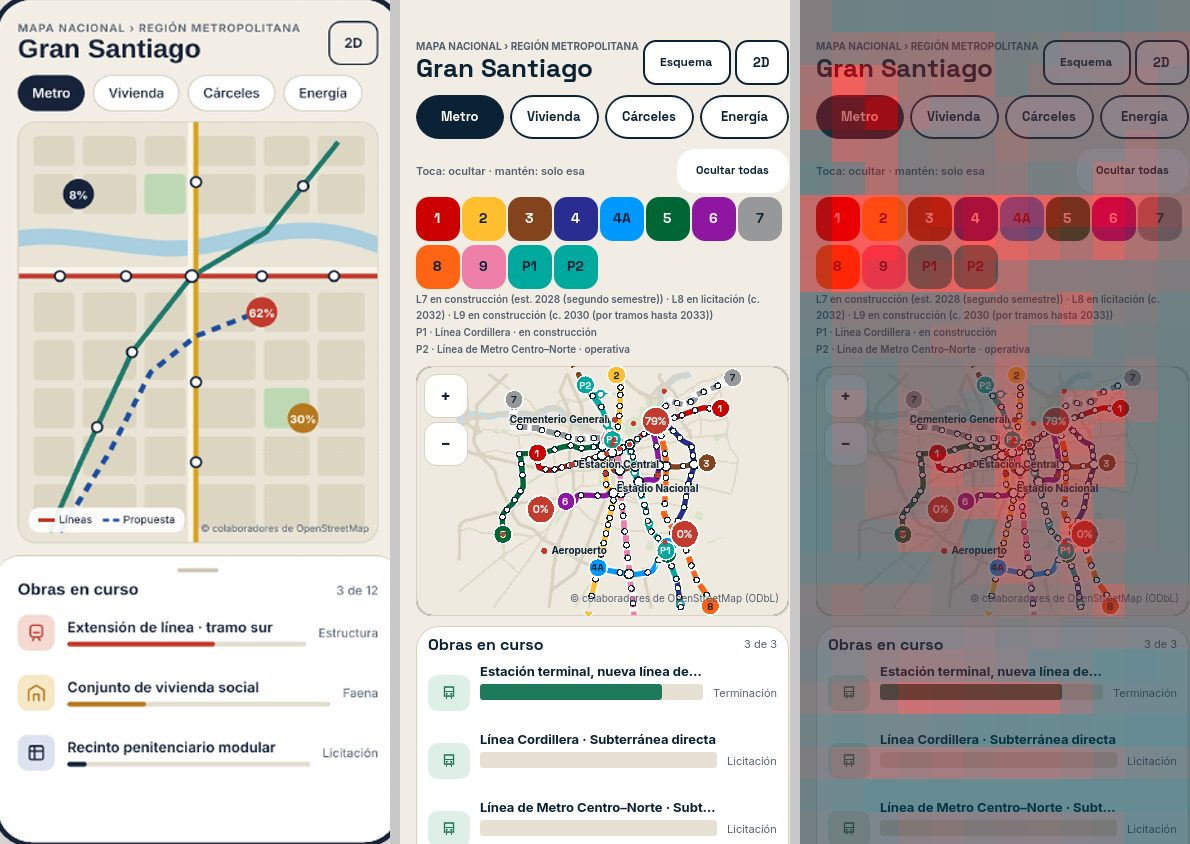
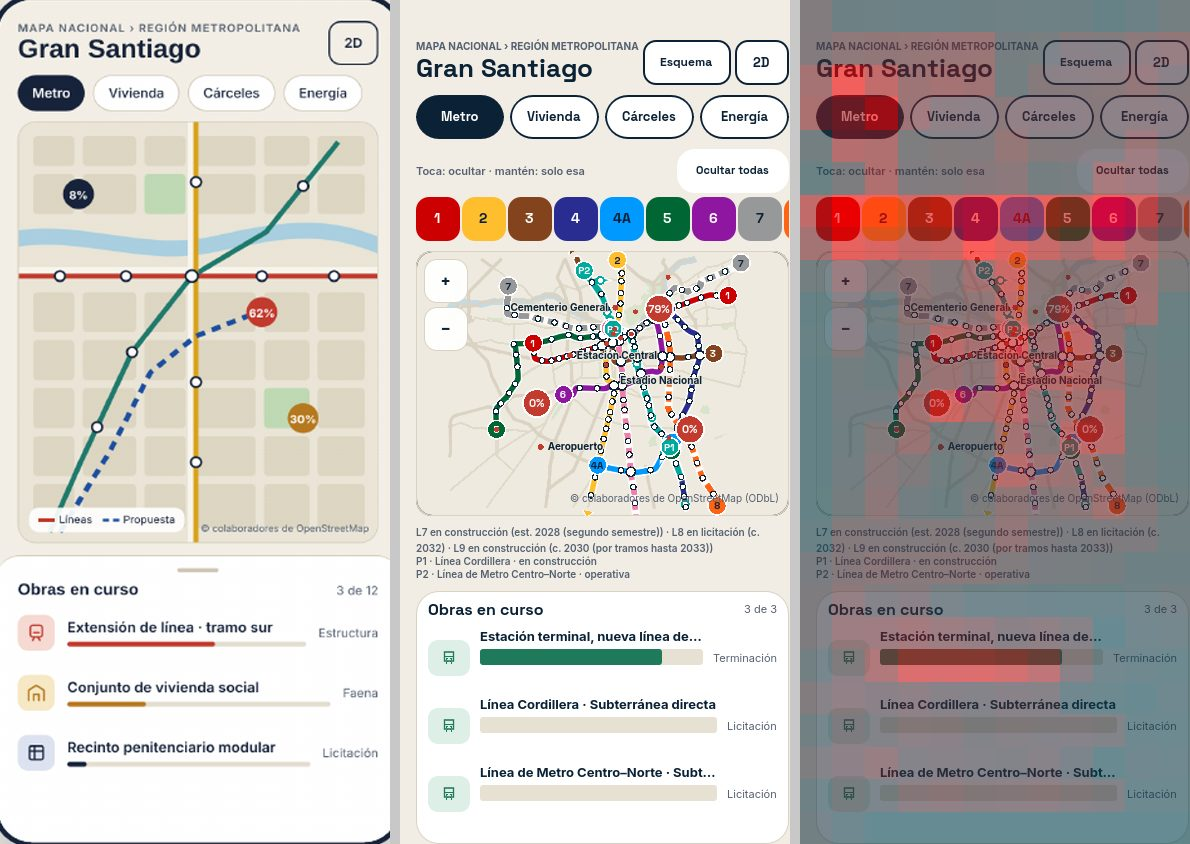
Mapa urbano: fichas de Metro en una fila deslizable y notas bajo el mapa
Las fichas de líneas ocupaban dos filas sobre el mapa y la hoja de obras
se salía por abajo (su tercera fila quedaba cortada). LeyendaMetro gana
«compacta» (una fila que se desliza de lado) y «notas_aparte» (las notas
de líneas futuras y propias van bajo el mapa). Todo cabe; frente a la
maqueta, de 23,0 % a 21,8 % de píxeles distintos. El mapa urbano entra a
RecorridoUI y test_textos no cuenta como desborde lo que está dentro de
una zona desplazable. El Comité sigue con la leyenda en dos filas.

Claude-Session: https://claude.ai/code/session_015HWWmkqdrhteNyoiHrGmho

Changed region(s): [[0.342, 0.2464, 0.995, 1.0], [0.995, 0.2156, 1.0, 0.2773]]

diff --git a/docs/DIFERENCIAS_MAQUETA.md b/docs/DIFERENCIAS_MAQUETA.md
@@ -194,4 +194,6 @@ Píxeles distintos del día frente a la maqueta: de 43,1 % a 39,2 %. El mapa gan
 
 En la votación: el contenido sube con la zona segura, el hemiciclo del Senado se compacta (radio 0,41 del ancho en vez de 0,46, alto 205 en vez de 230) y el sello «APROBADA / RECHAZADA» pasa a 32 pt con letras separadas, como en la maqueta. Píxeles distintos: de 22,5 % a 22,0 %.
 
+En el mapa urbano, las fichas de líneas de Metro (una extensión sobre la maqueta) ocupaban dos filas sobre el mapa, y la hoja de obras se salía por abajo: su tercera fila quedaba cortada. Ahora las fichas van en una sola fila que se desliza de lado (`LeyendaMetro.compacta`) y las notas de líneas futuras y propias, bajo el mapa (`notas_aparte`). Todo cabe y los píxeles distintos bajan de 23,0 % a 21,8 %. El mapa urbano entra también a `RecorridoUI`, así que lo cubren las auditorías de textos y zonas táctiles.
+
 Reglas: todo el movimiento respeta Ajustes › «Animaciones y movimiento» y se apaga en modo headless, así que las pruebas miden siempre el estado final. El azar de las partículas es solo visual y no toca la semilla de la partida. Prueba propia: `tests/test_movimiento.gd`.

diff --git a/docs/comparacion/DIFERENCIA_MAQUETA.md b/docs/comparacion/DIFERENCIA_MAQUETA.md
@@ -9,6 +9,6 @@ comparar pantallas entre sí y ver si un cambio acerca o aleja. Imágenes: `dif_
 |---|---|---|---|---|
 | dia | 39.2 % | 27.7 | inferior centro (y ≈ 640–672 px) | 76 |
 | nacion | 29.2 % | 25.0 | superior centro (y ≈ 96–128 px) | 104 |
-| urbano | 23.0 % | 18.5 | superior centro (y ≈ 192–224 px) | 83 |
 | votacion | 22.0 % | 19.0 | inferior izquierda (y ≈ 736–768 px) | 68 |
+| urbano | 21.8 % | 17.5 | superior centro (y ≈ 192–224 px) | 83 |
 | hito | 19.1 % | 15.1 | media derecha (y ≈ 512–544 px) | 83 |
